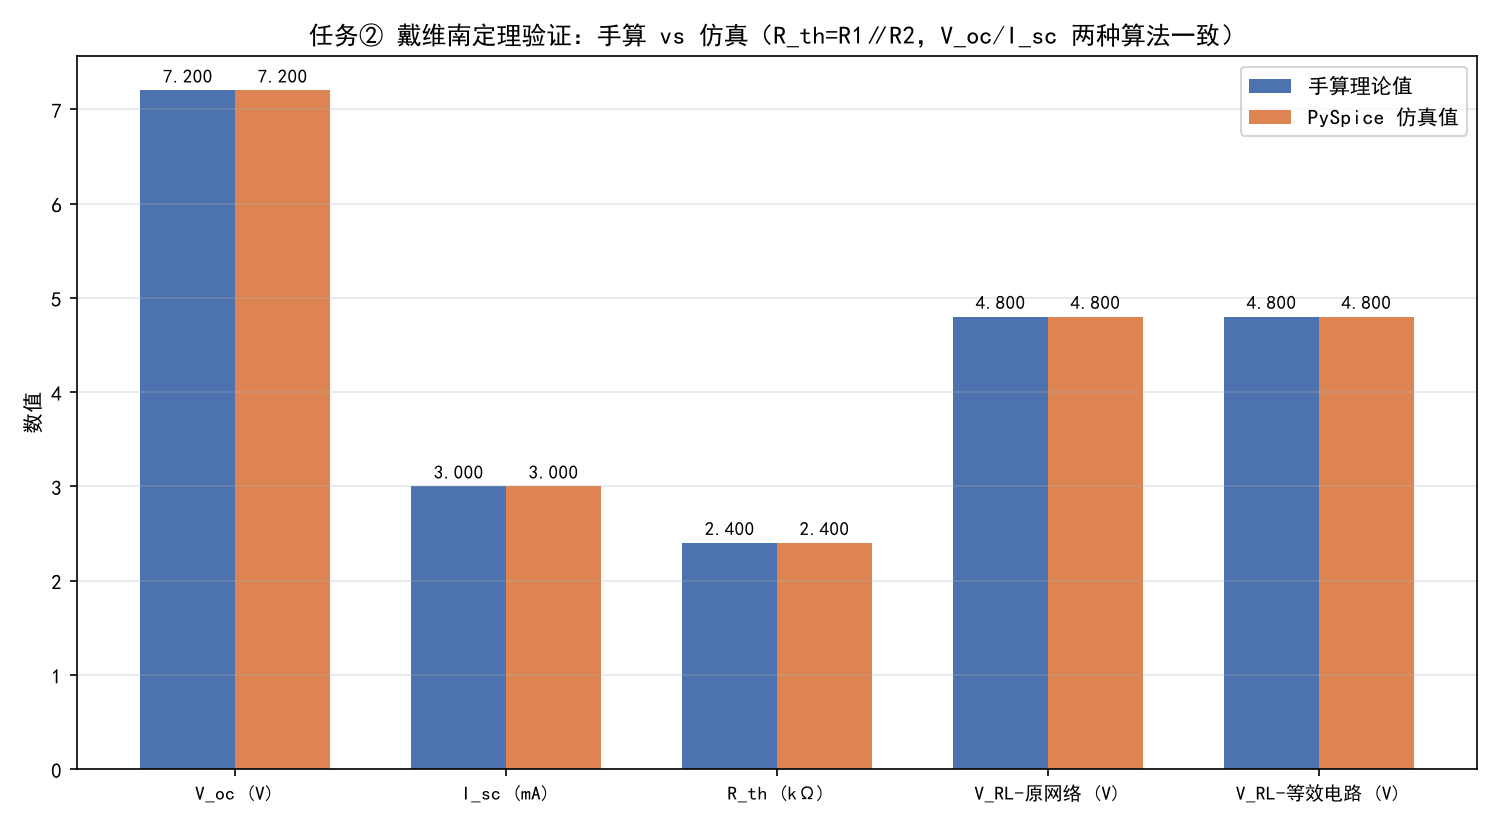
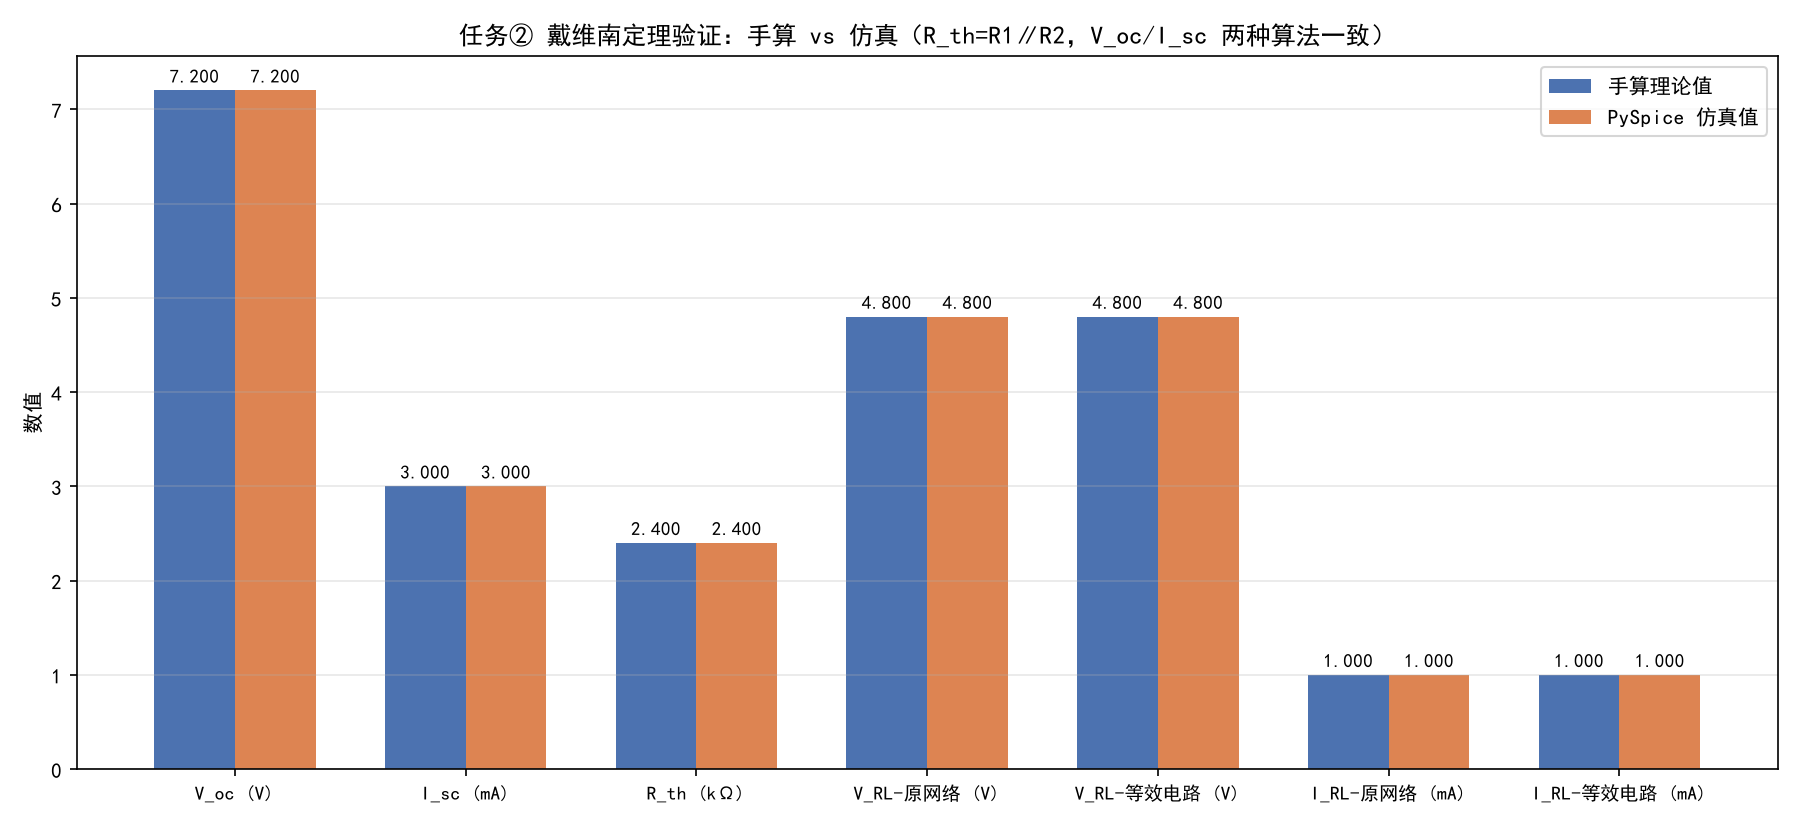
task2update

diff --git a/task 5 test/task2_thevenin2.py b/task 5 test/task2_thevenin2.py
@@ -1,0 +1,151 @@
+# -*- coding: utf-8 -*-
+# =====================================================================
+# 考核任务②：戴维南定理验证（PySpice 仿真）
+# ---------------------------------------------------------------------
+# 含源二端网络（端口标注 a-b）：电压源 V1(12V) -> R1(4kΩ) -> 端口节点 p，
+#                              R2(6kΩ) 并联在端口 p 与地之间
+# 手算理论值：
+#   开路电压（分压公式）：V_oc = V1 × R2/(R1+R2) = 12 × 6k/(4k+6k) = 7.2 V
+#   短路电流：I_sc = V1/R1 = 12/4k = 3 mA（端口短路时 R2 被短路、无电流流过）
+#   等效电阻（除源后）：R_th = R1∥R2 = R1·R2/(R1+R2) = 2.4 kΩ = V_oc/I_sc
+#   接负载 RL=4.8kΩ 后（分压公式）：V_RL = V_oc × RL/(R_th+RL) = 4.8 V
+# 验证思路：V_oc、I_sc 两次仿真 + 原网络接负载 vs 戴维南等效电路接负载，对比电压电流
+# 运行输出：task2_thevenin_compare.png（手算 vs 仿真对比柱状图）+ 控制台数据摘要
+# =====================================================================
+
+import numpy as np                             # 导入 numpy：用于数值计算（柱状图数据整理）
+import matplotlib.pyplot as plt                # 导入 matplotlib：绘图库，用于画对比柱状图
+from PySpice.Spice.Netlist import Circuit      # 导入 Circuit 类：搭建 SPICE 网表
+from PySpice.Unit import *                     # 导入单位系统：直接用 kΩ、V 等物理单位写参数
+
+plt.rcParams['font.sans-serif'] = ['SimHei', 'Microsoft YaHei']  # 设置中文字体防止乱码
+plt.rcParams['axes.unicode_minus'] = False                       # 修复负号显示问题
+
+# ---------------- 1. 电路参数（任务书规定①②电路参数自定） ----------------
+V1 = 12.0                                      # 独立电压源 V1 = 12 V（网络内部的源）
+R1 = 4e3                                       # 电阻 R1 = 4 kΩ（源内串联回路电阻，单位：Ω）
+R2 = 6e3                                       # 电阻 R2 = 6 kΩ（端口并联电阻）
+RL = 4.8e3                                     # 负载电阻 RL = 4.8 kΩ（验证用）
+
+# 手算理论值（供对比）
+voc_th = V1 * R2 / (R1 + R2)                   # 分压公式：V_oc = V1·R2/(R1+R2) = 7.2 V
+isc_th = V1 / R1                               # 短路电流公式：I_sc = V1/R1 = 3 mA（R2 被短路不分流）
+rth_th = R1 * R2 / (R1 + R2)                   # 并联等效电阻公式：R_th = R1R2/(R1+R2) = 2.4 kΩ
+vrl_th = voc_th * RL / (rth_th + RL)           # 戴维南等效后接负载分压公式：V_RL = V_oc·RL/(R_th+RL) = 4.8 V
+irl_th = vrl_th / RL                           # 欧姆定律：I_RL = V_RL/RL = 1 mA
+
+# ---------------- 2. 仿真一：测开路电压 V_oc（端口 a-b 空载） ----------------
+c1 = Circuit('原网络-开路')                     # 网表一：原网络，不接负载
+c1.V('1', 'a', c1.gnd, V1 @ u_V)               # 电压源 V1 从节点 a（电源正）对地 12V
+c1.R(1, 'a', 'p', R1 @ u_Ohm)                  # R1 从电源正端串到端口节点 p
+c1.R(2, 'p', c1.gnd, R2 @ u_Ohm)               # R2 并联在端口 p 与地之间（构成二端网络）
+op1 = c1.simulator(temperature=25, nominal_temperature=25).operating_point()  # 直流工作点分析（基尔霍夫定律求解）
+voc_sim = float(op1['p'][0])                   # 端口开路时 p 点电压即 V_oc（无电流流出端口）
+
+# ---------------- 3. 仿真二：测短路电流 I_sc（端口 a-b 短路） ----------------
+c2 = Circuit('原网络-端口短路')                 # 网表二：原网络，端口用 0V 电压源当"电流表"短接
+c2.V('1', 'a', c2.gnd, V1 @ u_V)               # 同上：12V 电源
+c2.R(1, 'a', 'p', R1 @ u_Ohm)                  # R1 串联
+c2.R(2, 'p', c2.gnd, R2 @ u_Ohm)               # R2 并联
+c2.V('sc', 'p', c2.gnd, 0 @ u_V)               # 0V 电压源 Vsc 把端口 p 短接到地：0V 源不影响电路，只读取流过它的电流
+op2 = c2.simulator(temperature=25, nominal_temperature=25).operating_point()  # 直流工作点分析
+isc_sim = abs(float(op2.branches['vsc'][0]))   # 从 Vsc 支路读短路电流（取绝对值，方向取决于源的正方向定义）
+
+rth_sim = voc_sim / isc_sim                    # 等效电阻公式：R_th = V_oc/I_sc（戴维南等效电阻的实验测定法）
+
+# ---------------- 4. 仿真三：原网络接负载 RL，测负载电压电流 ----------------
+c3 = Circuit('原网络-接负载')                   # 网表三：原网络端口接真实负载
+c3.V('1', 'a', c3.gnd, V1 @ u_V)               # 12V 电源
+c3.R(1, 'a', 'p', R1 @ u_Ohm)                  # R1 串联
+c3.R(2, 'p', c3.gnd, R2 @ u_Ohm)               # R2 并联
+c3.R('L', 'p', c3.gnd, RL @ u_Ohm)             # 负载 RL 接在端口 p 与地之间
+op3 = c3.simulator(temperature=25, nominal_temperature=25).operating_point()  # 直流工作点分析
+vrl_sim_orig = float(op3['p'][0])              # 负载两端电压（p 点对地电压）
+irl_sim_orig = vrl_sim_orig / RL               # 欧姆定律：I_RL = V_RL/RL
+
+# ---------------- 5. 仿真四：戴维南等效电路（V_oc 串 R_th）接同一负载 ----------------
+c4 = Circuit('戴维南等效-接负载')               # 网表四：用等效源替代原网络
+c4.V('th', 't', c4.gnd, voc_sim @ u_V)         # 等效电压源 V_th = 仿真测得的 V_oc ≈ 7.2V
+c4.R('th', 't', 'p', rth_sim @ u_Ohm)          # 等效内阻 R_th = V_oc/I_sc ≈ 2.4kΩ 串联
+c4.R('L', 'p', c4.gnd, RL @ u_Ohm)             # 同一个负载 RL
+op4 = c4.simulator(temperature=25, nominal_temperature=25).operating_point()  # 直流工作点分析
+vrl_sim_thev = float(op4['p'][0])              # 等效电路下负载电压（应与原网络完全一致）
+irl_sim_thev = vrl_sim_thev / RL               # 等效电路下负载电流
+
+# 【新增】等效替换偏差：等效电路与原网络在同一负载上的差异（理论上应为 0，这是定理的核心判据）
+dev_v = abs(vrl_sim_thev - vrl_sim_orig) / vrl_sim_orig * 100   # 负载电压的相对偏差公式：|V_等效-V_原网络|/V_原网络×100%
+dev_i = abs(irl_sim_thev - irl_sim_orig) / irl_sim_orig * 100   # 负载电流的相对偏差公式：|I_等效-I_原网络|/I_原网络×100%
+
+# ---------------- 6. 画"手算 vs 仿真"对比柱状图并保存 ----------------
+# 【修改】标签与数据组：在原 5 项基础上新增负载电流 I_RL 的两项（原网络、等效电路），使电压电流都能在图里对比
+labels = ['V_oc (V)', 'I_sc (mA)', 'R_th (kΩ)', 'V_RL-原网络 (V)', 'V_RL-等效电路 (V)',
+          'I_RL-原网络 (mA)', 'I_RL-等效电路 (mA)']                                    # 【修改】七个对比项标签（原五项 + 电流两项）
+hand_vals = [voc_th, isc_th * 1e3, rth_th / 1e3, vrl_th, vrl_th, irl_th * 1e3, irl_th * 1e3]   # 【修改】手算值（统一量纲后，电流换算成 mA）
+sim_vals = [voc_sim, isc_sim * 1e3, rth_sim / 1e3, vrl_sim_orig, vrl_sim_thev,
+            irl_sim_orig * 1e3, irl_sim_thev * 1e3]                                   # 【修改】仿真值（统一量纲后，电流换算成 mA）
+x = np.arange(len(labels))                     # 柱状图横坐标位置数组
+w = 0.35                                       # 每根柱子的宽度
+plt.figure(figsize=(12, 5.5))                  # 【修改】画布加宽：项目变多，避免横轴标签重叠
+b1 = plt.bar(x - w / 2, hand_vals, w, color='#4C72B0', label='手算理论值')               # 左柱：手算值
+b2 = plt.bar(x + w / 2, sim_vals, w, color='#DD8452', label='PySpice 仿真值')           # 右柱：仿真值
+for bars in (b1, b2):                          # 遍历两组柱子
+    for b in bars:                             # 遍历每根柱子
+        plt.text(b.get_x() + b.get_width() / 2, b.get_height() + 0.08,          # 在柱顶上方标注数值
+                 '%.3f' % b.get_height(), ha='center', fontsize=9)
+plt.xticks(x, labels, fontsize=9)              # 横轴刻度标签
+plt.ylabel('数值')                             # y 轴标签
+plt.title('任务② 戴维南定理验证：手算 vs 仿真（R_th=R1∥R2，V_oc/I_sc 两种算法一致）')  # 标题
+plt.legend()                                   # 图例
+plt.grid(axis='y', alpha=0.3)                  # y 向网格便于读数
+plt.tight_layout()                             # 调整布局
+plt.savefig('task2_thevenin_compare.png', dpi=150)  # 保存对比图 png
+
+# ---------------- 7. 打印数据摘要：手算 vs 仿真 对比表 ----------------
+print('=' * 66)                                # 分隔线
+print('任务② 戴维南定理验证 —— 手算 vs 仿真 数据摘要')                     # 表标题
+print('=' * 66)                                # 分隔线
+print('项目               手算理论值      仿真值         相对误差')           # 表头
+print('-' * 66)                                # 分隔线
+print('V_oc 开路电压     %-12.4f V    %-12.4f V    %.3f%%' %              # 开路电压对比（分压公式）
+      (voc_th, voc_sim, abs(voc_sim - voc_th) / voc_th * 100))
+print('I_sc 短路电流     %-12.4f mA   %-12.4f mA   %.3f%%' %              # 短路电流对比（I_sc=V1/R1）
+      (isc_th * 1e3, isc_sim * 1e3, abs(isc_sim - isc_th) / isc_th * 100))
+print('R_th 等效电阻     %-12.4f kΩ   %-12.4f kΩ   %.3f%%' %              # 等效电阻对比（R_th=R1∥R2 与 V_oc/I_sc 双算法）
+      (rth_th / 1e3, rth_sim / 1e3, abs(rth_sim - rth_th) / rth_th * 100))
+print('V_RL 原网络接负载 %-12.4f V    %-12.4f V    %.3f%%' %              # 原网络负载电压对比
+      (vrl_th, vrl_sim_orig, abs(vrl_sim_orig - vrl_th) / vrl_th * 100))
+print('V_RL 等效电路接负载 %-10.4f V    %-12.4f V    %.3f%%' %            # 等效电路负载电压对比（应≈0 误差）
+      (vrl_th, vrl_sim_thev, abs(vrl_sim_thev - vrl_th) / vrl_th * 100))
+print('-' * 66)                                # 分隔线
+print('负载电流：原网络 %.4f mA，等效电路 %.4f mA（二者一致 → 戴维南等效对外电路完全成立）' %
+      (irl_sim_orig * 1e3, irl_sim_thev * 1e3))                                 # 电流验证结论
+print('结论：R_th 可用 R1∥R2（除源）与 V_oc/I_sc（实验法）两种方法求得，结果一致')     # 结论
+
+# =====================================================================
+# 【新增】第 8 节：等效电路替换后接负载的「电压 + 电流」验证表
+# ---------------------------------------------------------------------
+# 任务书要求：等效电路替换后要有接负载的电压与电流验证表。
+# 表格三行：手算理论 / 原网络接负载（仿真）/ 戴维南等效电路接负载（仿真）
+# 每行同时给出负载电压 V_RL 与负载电流 I_RL，并给出相对手算值的误差。
+# 判据：后两行应当几乎完全相同（偏差 ≈ 0），即等效替换对外部负载"不可区分"。
+# =====================================================================
+print('=' * 78)                                # 【新增】分隔线
+print('等效电路替换验证表：同一个负载 RL = %.1f kΩ 分别接在原网络与戴维南等效电路上' % (RL / 1e3))  # 【新增】表标题
+print('=' * 78)                                # 【新增】分隔线
+print('| 接法 | 负载电压 V_RL (V) | 负载电流 I_RL (mA) | 电压误差 (%) | 电流误差 (%) |')   # 【新增】markdown 表头（可直接粘进 README）
+print('| --- | --- | --- | --- | --- |')                                                  # 【新增】markdown 分隔行
+print('| 手算理论值 | %.4f | %.4f | — | — |' % (vrl_th, irl_th * 1e3))                     # 【新增】第一行：手算值，作为误差基准
+print('| 原网络 + RL（仿真） | %.4f | %.4f | %.3f | %.3f |' %                              # 【新增】第二行：原网络接负载的电压电流及其相对误差
+      (vrl_sim_orig, irl_sim_orig * 1e3,
+       abs(vrl_sim_orig - vrl_th) / vrl_th * 100,
+       abs(irl_sim_orig - irl_th) / irl_th * 100))
+print('| 戴维南等效 + RL（仿真） | %.4f | %.4f | %.3f | %.3f |' %                          # 【新增】第三行：等效电路接负载的电压电流及其相对误差
+      (vrl_sim_thev, irl_sim_thev * 1e3,
+       abs(vrl_sim_thev - vrl_th) / vrl_th * 100,
+       abs(irl_sim_thev - irl_th) / irl_th * 100))
+print('-' * 78)                                # 【新增】分隔线
+print('等效替换偏差（③ 相对 ②）：负载电压 %.6f%% ，负载电流 %.6f%%' % (dev_v, dev_i))     # 【新增】核心判据：两行仿真的差异
+print('判据：偏差 ≈ 0 说明戴维南等效电路对外部负载而言与原网络完全等效（电压、电流双双成立）')  # 【新增】结论句（可直接抄进 README）
+print('=' * 78)                                # 【新增】分隔线
+
+plt.show()                                     # 弹出图窗（已先保存 png）

diff --git a/.workbuddy/memory/2026-10-03.md b/.workbuddy/memory/2026-10-03.md
@@ -1,0 +1,23 @@
+# 2026-10-03 工作日志
+
+## 任务① 报错排查（ModuleNotFoundError: No module named 'numpy'）
+- 现象：用户在 VS Code 中用 `C:\Users\CuboJ\.local\bin\python3.12.exe`（uv 管理的全局解释器）运行 task1_RC.py，第 13 行 import numpy 报错。
+- 定位：**不是代码问题，也不是换文件位置的问题**，是 VS Code 选错了 Python 解释器。
+- 正确环境：venv 就在脚本旁 `C:\Users\CuboJ\Desktop\hello\task 5 test\.venv\`，内含 numpy 2.5.3 / matplotlib 3.11.2 / PySpice 1.5，ngspice 链路正常。
+- 已用 venv 解释器完整重跑 task1_RC.py 验证：τ 误差 0.05%、fc 误差 0.00%、增益@1kHz 误差 0.00%，PNG 正常生成。
+- 解决方法：VS Code 底部状态栏选择解释器 → `task 5 test\.venv\Scripts\python.exe`；或在终端运行 `& "C:\Users\CuboJ\Desktop\hello\task 5 test\.venv\Scripts\python.exe" "task1_RC.py"`。
+
+## 长期事实
+- PySpice 考核项目文件在 `Desktop\hello\task 5 test\`，配套 venv 为该目录下 `.venv\`（uv 创建，Python 3.12，勿删，含 PySpice/ngspice 可用环境）。
+
+## 解释器列表不显示 .venv 的修复（13:27）
+- 原因：venv 在工作区子文件夹 `task 5 test\.venv`，VS Code 解释器选择列表扫描不到。
+- 修复：在 `C:\Users\CuboJ\Desktop\hello\.vscode\settings.json` 中新增 `python.defaultInterpreterPath` 指向 `task 5 test\.venv\Scripts\python.exe`，并开启 `python.terminal.activateEnvironment`。
+- 已再次完整验证 task1_RC.py 运行通过（误差 0.00%~0.05%）。
+
+## 二次修复：手动选解释器仍未生效（13:31）
+- 原因补充：`python.defaultInterpreterPath` 只在"从未手动选过解释器"的工作区生效；VS Code 缓存了旧选择，配置被忽略。
+- 根治：用 PowerShell 创建目录联接 `C:\Users\CuboJ\Desktop\hello\.venv` → `task 5 test\.venv`（junction，不占空间），使 venv 出现在工作区根目录，VS Code 扫描必能发现。
+- settings.json 的 defaultInterpreterPath 已同步改为根目录 `.venv\Scripts\python.exe`。
+- 注意：通过 Git Bash 调 cmd mklink 会因编码/引号问题失败，须用 PowerShell `New-Item -ItemType Junction`。
+- 已通过根目录 .venv 路径完整验证脚本运行通过。
